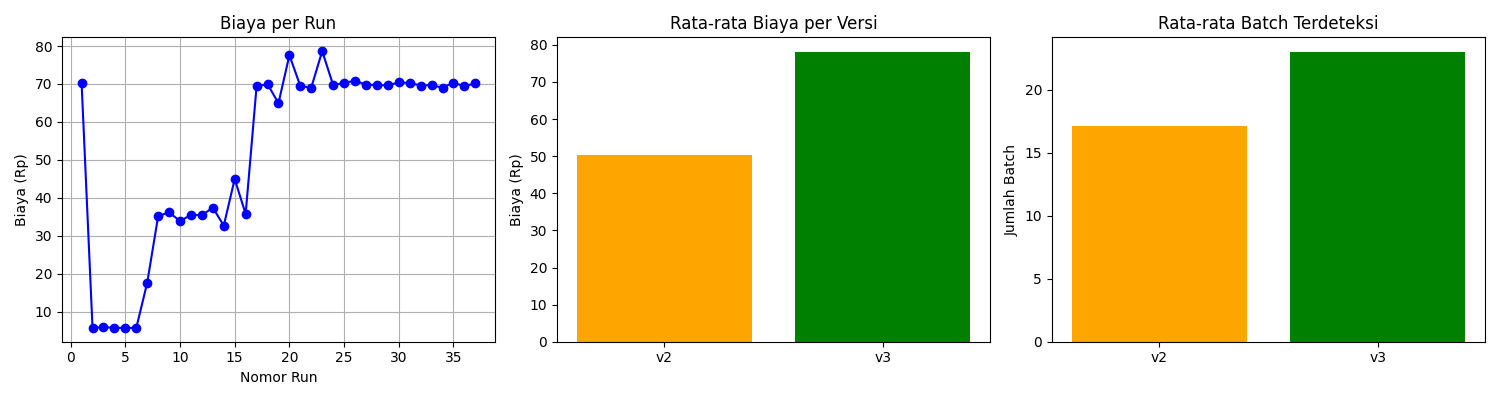
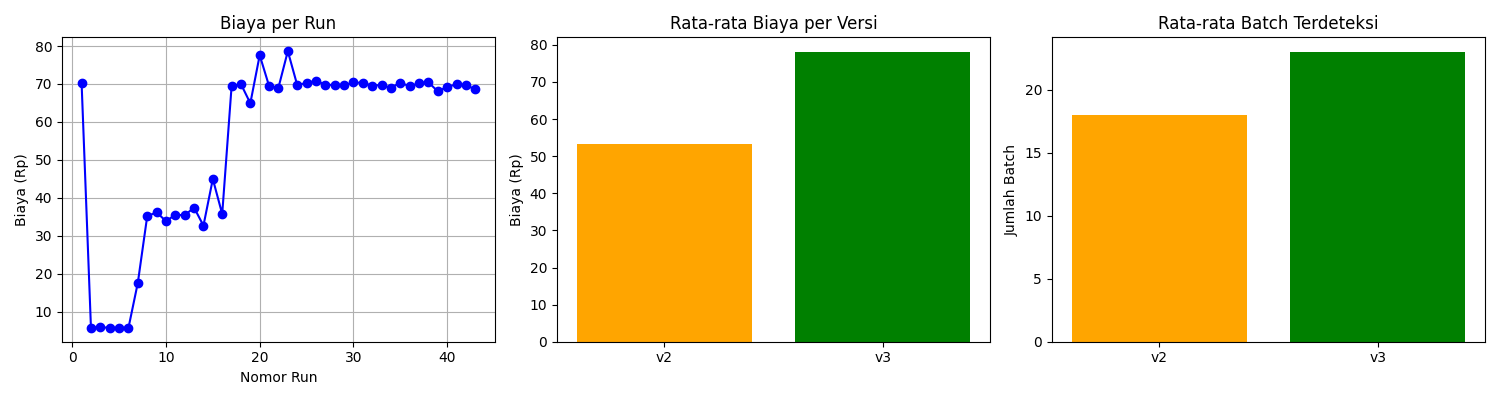
save and fetch analysis from database

diff --git a/db.py b/db.py
@@ -1,6 +1,7 @@
 import psycopg2
 from config import DB_CONFIG
 from exceptions import DatabaseError
+import json
 from tenacity import retry, stop_after_attempt, wait_exponential, retry_if_exception_type
 
 import logging
@@ -75,11 +76,47 @@ def insert_decision_log(conn, decision, analisis, kpi):
                 analisis.kesimpulan,
                 json.dumps(kpi),
             ))
-        conn.commit()
-        return True
+            conn.commit()
+            return True
     except Exception as e:
         conn.rollback()
         # Log error kalau perlu
         import logging
         logging.getLogger(__name__).error(f"Gagal insert decision_log: {e}")
         return False
+def insert_analysis_log(conn,kesimpulan,status,kpi):
+    try:
+        with conn.cursor() as cur:
+            cur.execute("""
+                INSERT INTO analysis_log
+                   (kesimpulan,status,kpi)
+                   VALUES(%s,%s,%s)
+                   RETURNING analysis_id """,(
+            kesimpulan,
+            status,
+            json.dumps(kpi)
+                   ))
+            id_baru = cur.fetchone()[0]
+            conn.commit()
+            return id_baru
+    except Exception as e:
+        conn.rollback()
+        import logging
+        logging.getLogger(__name__).error(f"Gagal insert analysis log : {e}")
+        return  None
+
+def fetch_analysis(conn,analysis_id):
+    try:
+        with conn.cursor() as cur:
+            cur.execute("""
+            SELECT analysis_id,kesimpulan,status,kpi,created_at
+            FROM analysis_log
+            WHERE analysis_id = %s""",(analysis_id,))
+
+        
+            return cur.fetchone()
+    except Exception as e:
+       
+        logging.getLogger(__name__).error(f"gagal fetch analys :{e}")
+        return None
+     

diff --git a/api.py b/api.py
@@ -93,10 +93,29 @@ async def get_analyze_from_analisis():
     conn = db.get_connection()
     try:
         analisis,decision,kpi = main.jalankan_analisis(conn)
-        return {"kesimpulan":analisis.kesimpulan,
+        id_baru = db.insert_analysis_log(conn,analisis.kesimpulan,decision.status.value,kpi)
+        return {"id":id_baru,
+                "kesimpulan":analisis.kesimpulan,
                 "status": decision.status.value,
                 "kpi":kpi}
     except Exception as e:
         return {"status":"error","message":str(e)}
+    finally:
+        conn.close()
+
+@app.get("/analyze/{analysis_id}")
+async def get_fetch_analyze_from_db(analysis_id : int):
+    conn = db.get_connection()
+    try:
+        data = db.fetch_analysis(conn,analysis_id)
+        if not data:
+            raise HTTPException(404,"data harus ada")
+        return{
+            "id" : data[0],
+            "kesimpulan" : data[1],
+            "status" : data[2],
+            "kpi" : data[3],
+            "created_at" : data[4],
+        }
     finally:
         conn.close()

diff --git a/test_insert_v2.py b/test_insert_v2.py
@@ -1,0 +1,16 @@
+from db import get_connection, insert_analysis_log
+
+conn = get_connection()
+id_baru = insert_analysis_log(conn, "Tes V2", "GOOD", {"x": 1})
+print(f"ID: {id_baru}")
+conn.close()
+
+# Baru buka koneksi baru untuk cek
+conn2 = get_connection()
+cur = conn2.cursor()
+cur.execute("SELECT * FROM analysis_log")
+rows = cur.fetchall()
+print(f"Jumlah baris: {len(rows)}")
+for row in rows:
+    print(row)
+conn2.close()

diff --git a/test_check_file.py b/test_check_file.py
@@ -1,0 +1,10 @@
+from db import get_connection
+
+conn = get_connection()
+cur = conn.cursor()
+cur.execute("SELECT * FROM analysis_log")
+rows = cur.fetchall()
+print(f"Jumlah baris: {len(rows)}")
+for row in rows:
+    print(row)
+conn.close()

diff --git a/test_insert.py b/test_insert.py
@@ -1,0 +1,6 @@
+from db import get_connection, insert_analysis_log
+
+conn = get_connection()
+id_baru = insert_analysis_log(conn, "Tes", "GOOD", {"total_batch": 100})
+print(f"ID baru: {id_baru}")
+conn.close()

diff --git a/test_fetch.py b/test_fetch.py
@@ -1,0 +1,6 @@
+from db import get_connection, fetch_analysis
+
+conn = get_connection()
+data = fetch_analysis(conn, 1)
+print("Data:", data)
+conn.close()
